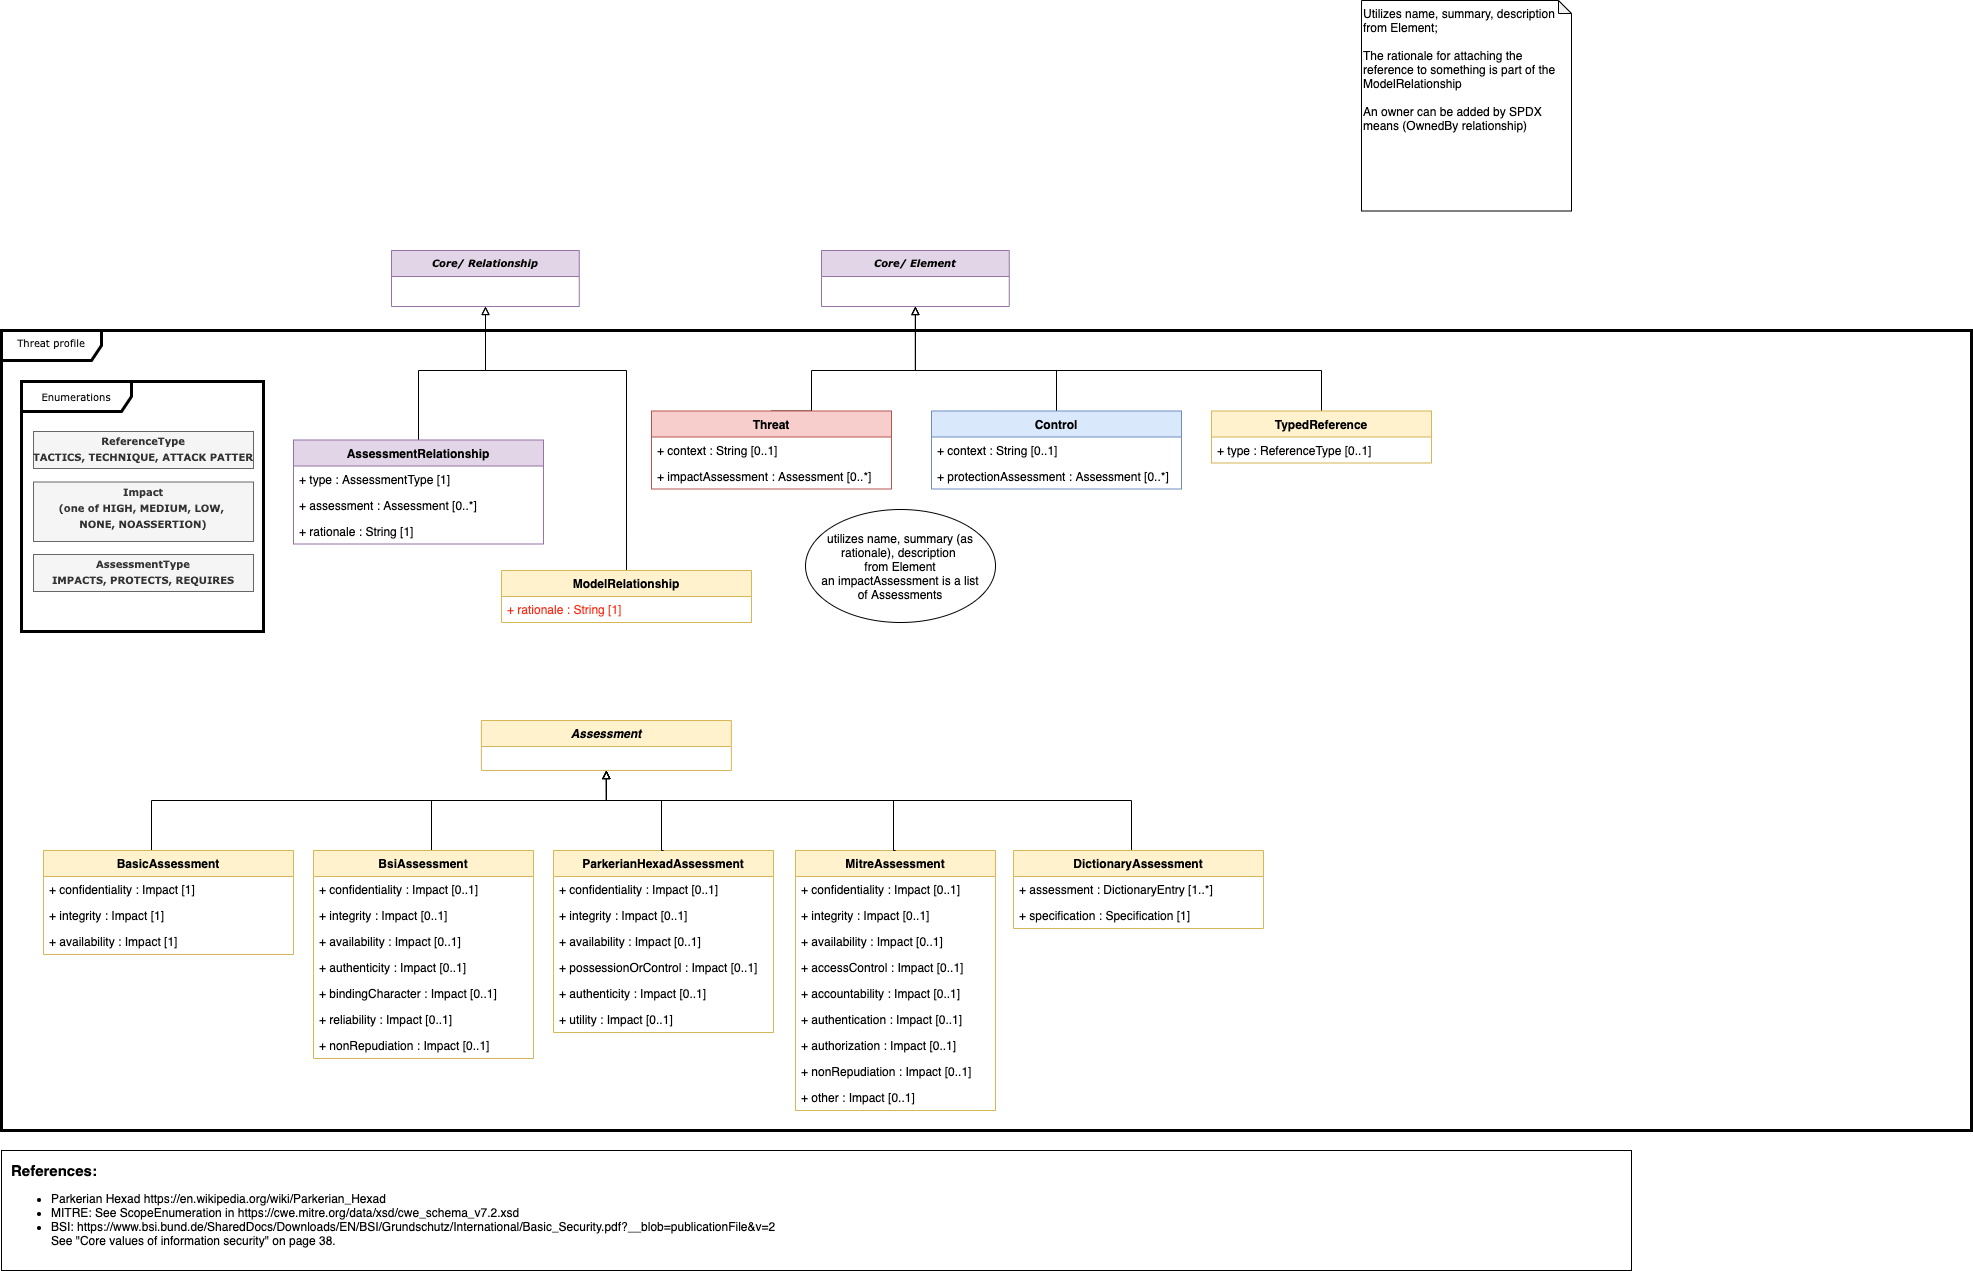
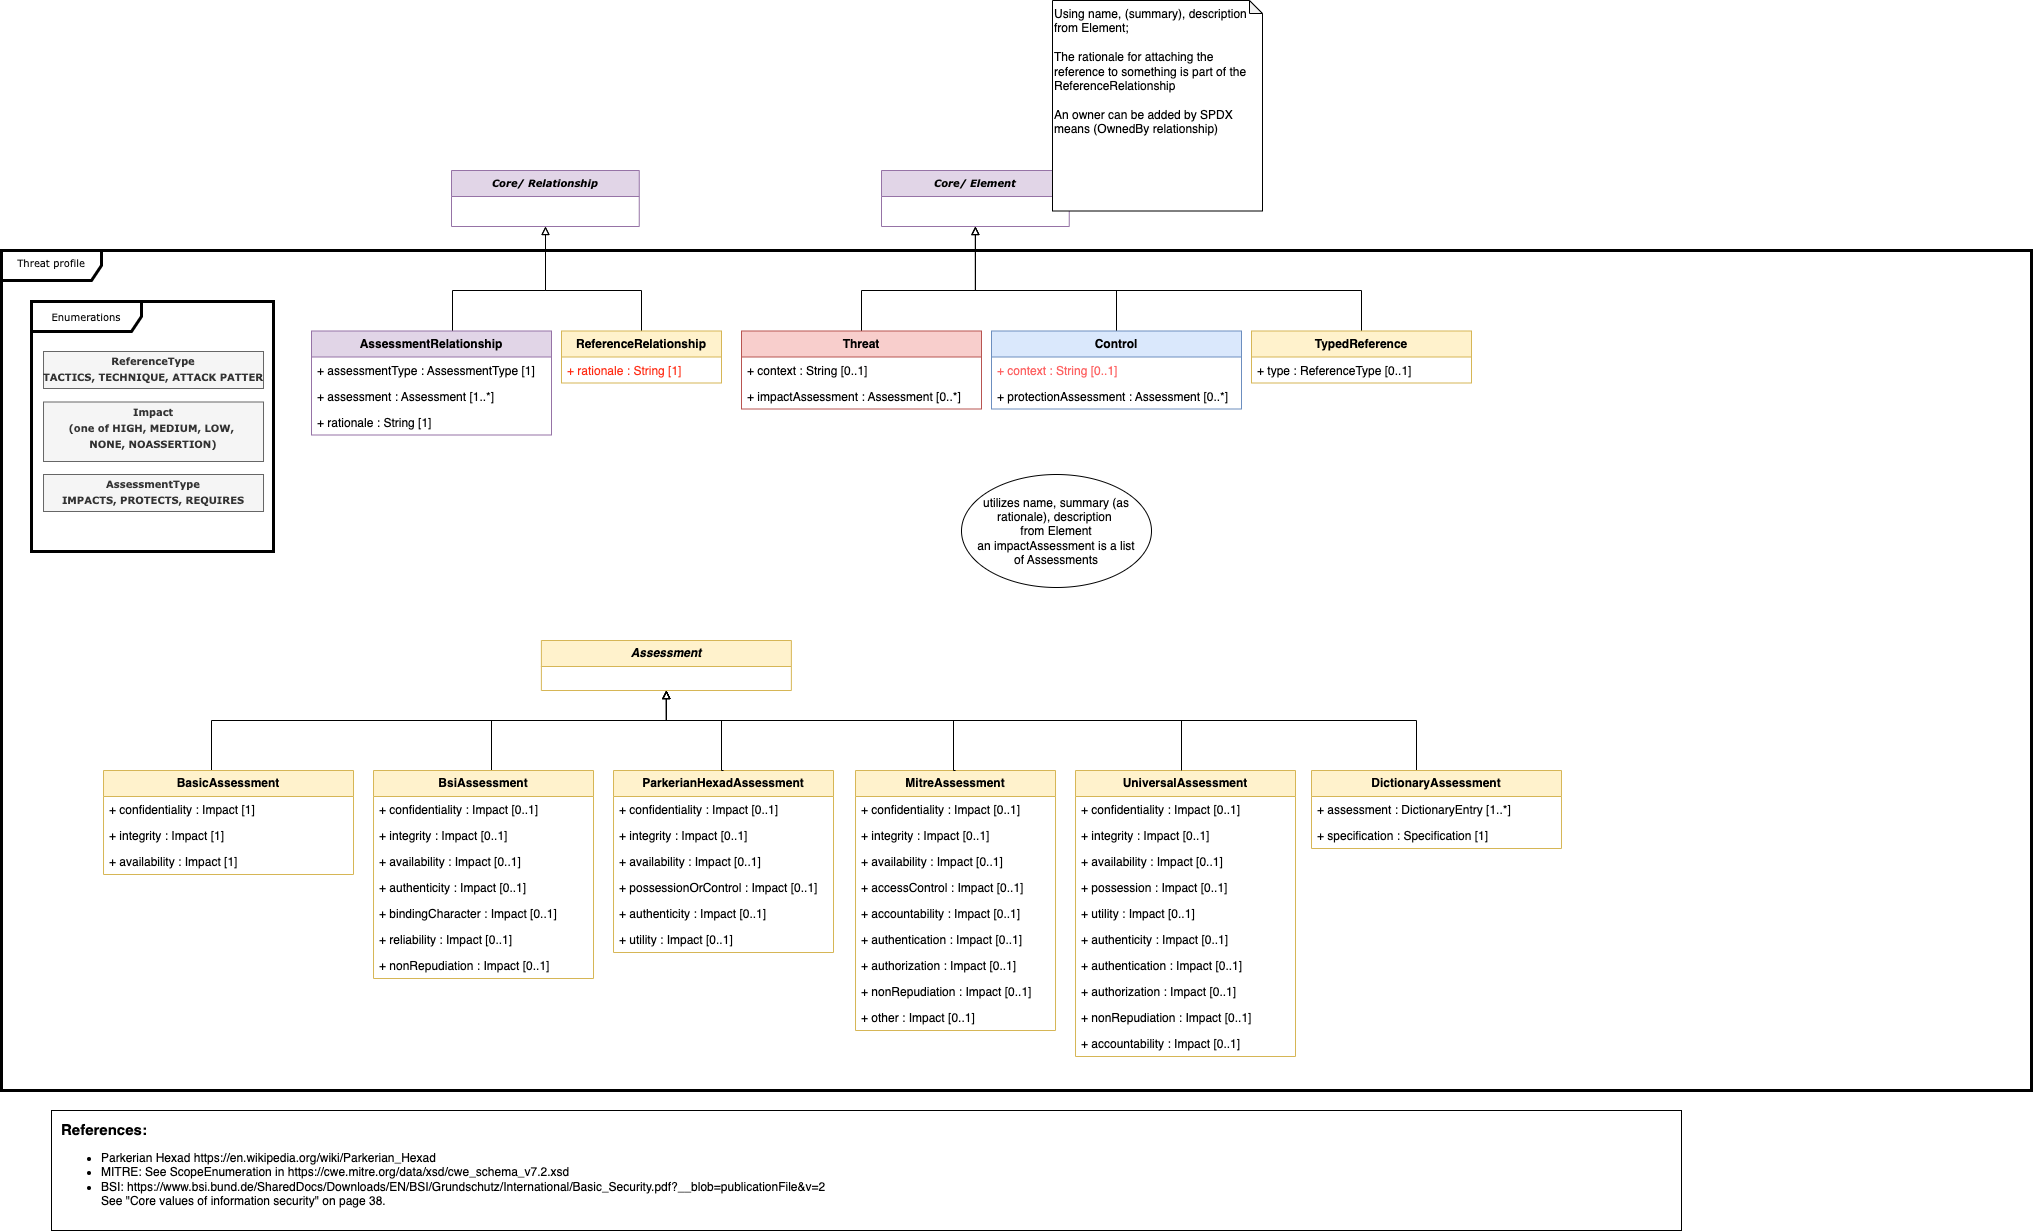
2026-03-30: meeting preparation

Changed region(s): [[0.0, 0.1235, 1.0, 0.9878], [0.6802, 0.0, 0.8039, 0.1235], [0.4947, 0.0, 0.6183, 0.1235]]

diff --git a/model/Threat/Classes/Threat.md b/model/Threat/Classes/Threat.md
@@ -1,0 +1,54 @@
+SPDX-License-Identifier: Community-Spec-1.0
+
+# Threat
+
+## Summary
+
+A threat is the potential of a negative circumstance or event.
+
+## Description
+
+A threat is an abstract concept of a potential danger or origin of damage. 
+
+In security, threats are used to describe scenarios where an adversary actor attempts to compromise a system and exploit 
+protected resources.
+
+In SPDX a Threat element is linked to different other elements to describe the Threat.
+As such the Threat is expressed by other existing concepts such as:
+* Weaknesses,
+* Attack Patterns or Attack Techniques, or
+* Attack Procedures or Attack Paths.
+
+Furthermore, a Threat maybe expressed by a need to protect. I.e. a threat can be
+inversely described by concepts intending to establish protection from a threat: 
+* Security Requirements, Mitations or Countermeasures,
+* Defense Techniques.
+
+SPDX explicitly differentiates Threats from Threat Actors or Threat Agents. A Threat
+is regarded permanent. It never goes away. A Threat Actor anticipates to exploit a 
+Threat in order to cause an impact on the system or its users.
+
+Based on a Threat as a potential several Risks can be concluded. A Risk is the evaluation
+of the Threat in the context of a selected and concrete Asset. This implies that one
+Threat can be evaluated to multiple Risks with different impact and likelihood depending
+on the target asset.
+
+E.g. the loss of confidential data (Threat) is evaluated as critical risk on the database 
+storing secrets, while the Risk is moderate on the database storing audit logs (with given
+policies controlling the allowed content).
+
+## Metadata
+
+- name: Threat
+- SubclassOf: /Core/Element
+- Instantiability: Concrete
+
+## Properties
+
+- context
+  - type: String
+  - minCount: 1
+  - maxCount: 1
+- impactAssessment
+  - type: Assessment
+  - minCount: 0

diff --git a/model/Threat/ThreatsAndControls.md b/model/Threat/ThreatsAndControls.md
@@ -4,12 +4,19 @@ SPDX-License-Identifier: Community-Spec-1.0
 
 ## Summary
 
-Enables to model Threats, Threat Assessments and Controls.
+Enables to model Threats and Controls as different assessment targets.
 
 ## Description
 
-The Threats and Controls namespace defines elements and relationships to outline threats, assess threats and 
-high-level controls.
+The Threats and Controls namespace defines elements and relationships to outline threats, assess threats and controls.
+
+The profile enables to communicate the context and conditions under which the evaluation of Threats are performed. The
+approach envisions to convey both the resulting protective design and the intended deployment in which Vulnerabilities
+can be evaluated in context.
+
+TODO:
+
+- Provide definitions on Threat-Analysis, Threat-Model, Threat-Modeling, Threat Catalog and differentiate these.
 
 ## Metadata
 

diff --git a/model/Threat/Vocabularies/ThreatReferenceType.md b/model/Threat/Vocabularies/ThreatReferenceType.md
@@ -1,10 +1,10 @@
 SPDX-License-Identifier: Community-Spec-1.0
 
-# ThreatReferenceType
+# TypedReference
 
 ## Summary
 
-The reference type categorizes the different threat reference types.
+The typed reference categorizes the different threat reference types.
 
 ## Description
 
@@ -24,4 +24,3 @@ currently supported types.
 - attackTechnique: represents an attack technique (compare MITRE ATT&CK); see https://attack.mitre.org/
 - attackProcedure: represents an attack procedure
 - weakness: represents a weakness (such as CWEs) that may be exploited; see https://cwe.mitre.org/data/index.html
-
